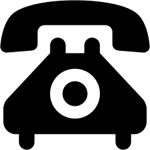
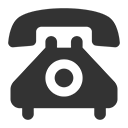
reduced image size, added color overlay to match scheme,and add hover color change to images backgrounds all in connect page

diff --git a/app/views/publicPages/connect.php b/app/views/publicPages/connect.php
@@ -7,13 +7,13 @@
         </div>
         <div class="row text-center" id="contactNavList">
 
-                <div class=" col-sm-3 col-md-3 col-lg-3"><a ng-click="show('form')"><img class="contactImage" src="/assets/connectIcons/KWICONinquiry.png"></a></div>
+                <div class="imageContainer col-sm-3 col-md-3 col-lg-3"><a ng-click="show('form')"><img class="contactImage" src="/assets/connectIcons/KWICONinquiry.png"></a></div>
 
-                <div class=" col-sm-3 col-md-3 col-lg-3"><a ng-click="show('email')"><img class="contactImage" src="/assets/connectIcons/KWICONemail.png"></a></div>
+                <div class="imageContainer col-sm-3 col-md-3 col-lg-3"><a ng-click="show('email')"><img class="contactImage" src="/assets/connectIcons/KWICONemail.png"></a></div>
 
-                <div class=" col-sm-3 col-md-3 col-lg-3"><a ng-click="show('skype')"><img class="contactImage" src="/assets/connectIcons/KWICONskype.png"></a></div>
+                <div class="imageContainer col-sm-3 col-md-3 col-lg-3"><a ng-click="show('skype')"><img class="contactImage" src="/assets/connectIcons/KWICONskype.png"></a></div>
 
-                <div class=" col-sm-3 col-md-3 col-lg-3"><a ng-click="show('voiceMail')"><img class="contactImage" src="/assets/connectIcons/KWICONphone.png"></a></div>
+                <div class="imageContainer col-sm-3 col-md-3 col-lg-3"><a ng-click="show('voiceMail')"><img class="contactImage" src="/assets/connectIcons/KWICONphone.png"></a></div>
 
         </div>
 

diff --git a/app/views/publicPages/wrapper.php b/app/views/publicPages/wrapper.php
@@ -73,6 +73,10 @@
             font-family: 'arvo', serif;
             font-size: 13px;
         }
+
+        .imageContainer:hover {
+            background:#dadada;
+        }
     </style>
 
 </head>
